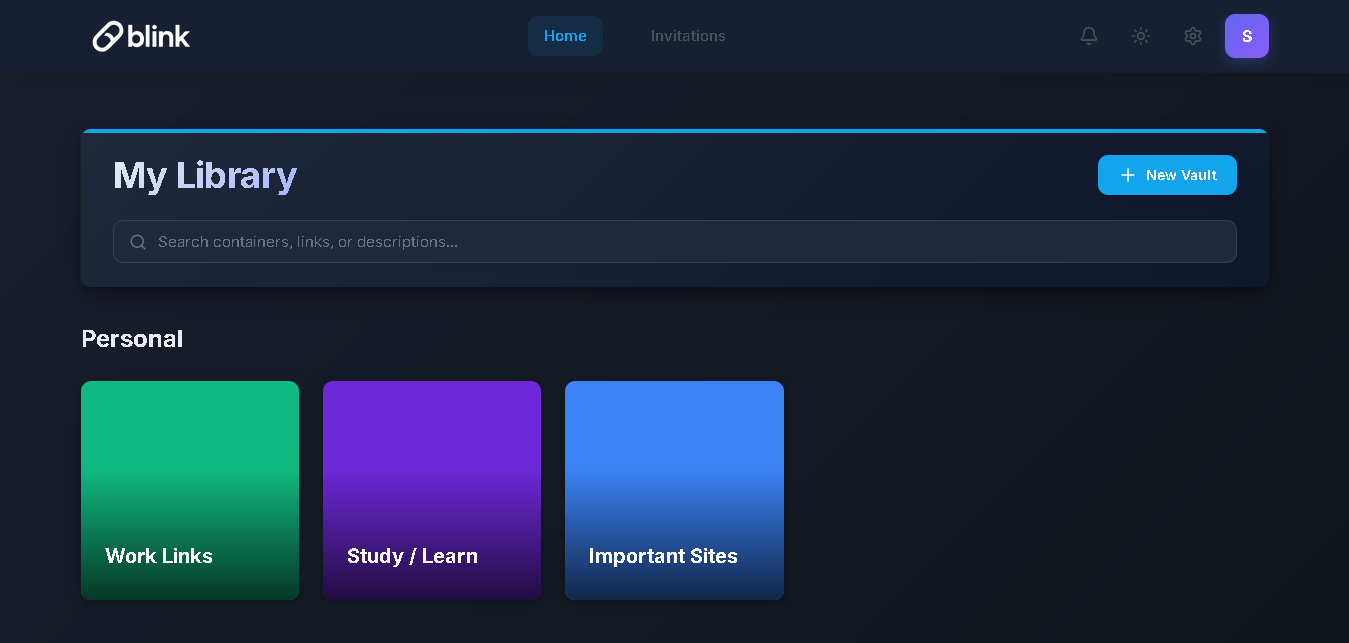
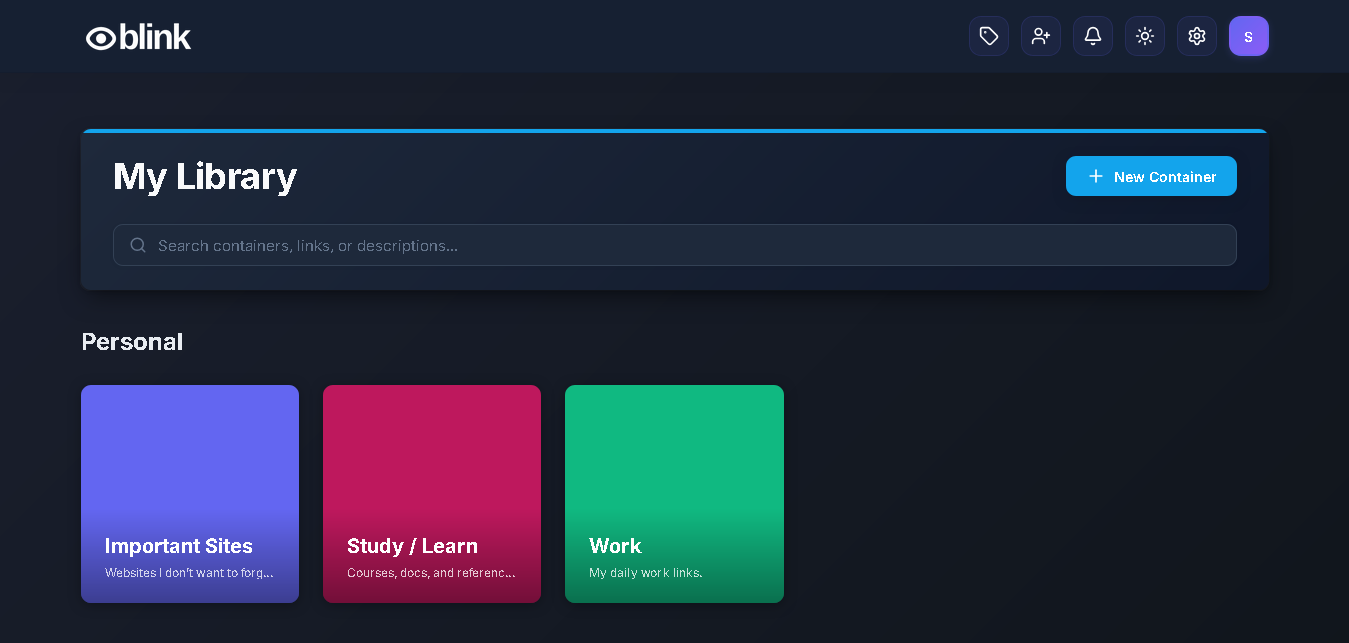
feat: introduce initial landing page with global styling and supporting assets.

diff --git a/src/pages/LandingPage.tsx b/src/pages/LandingPage.tsx
@@ -1,16 +1,18 @@
-import React from 'react';
+import React, { useState } from 'react';
 import { Link } from 'react-router-dom';
 import { useTheme } from '../contexts/ThemeContext';
-import { Lock, Share2, Zap, Users, Search, Moon, Sun, Shield, Layout, Globe } from 'lucide-react';
+import { Lock, Share2, Zap, Users, Search, Moon, Sun, Shield, Layout, Globe, Tag, Palette } from 'lucide-react';
 import blinkLogo from '../assets/blinklogo2.png';
 import homepageImg from '../assets/Screenshots/homepage.png';
 import inviteImg from '../assets/Screenshots/invite.png';
 import shareImg from '../assets/Screenshots/share.png';
 import vaultDetailsImg from '../assets/Screenshots/vaultdetails.png';
+import tagsImg from '../assets/Screenshots/tags.png';
 import '../css/About.css';
 
 const LandingPage: React.FC = () => {
   const { theme, toggleTheme } = useTheme();
+  const [demoColor, setDemoColor] = useState('#6366f1');
 
   return (
     <div className="landing-page bg-white dark:bg-gray-900 text-black dark:text-white overflow-hidden">
@@ -52,7 +54,7 @@ const LandingPage: React.FC = () => {
               The ultimate workspace to store, manage, and collaborate on links with your team. Secure, fast, and beautifully designed.
             </p>
             <div className="hero-buttons flex gap-4">
-              <Link to="/signup" className="btn-primary about-btn-primary px-8 py-3 text-lg rounded-full shadow-lg hover:shadow-xl transition-all transform hover:-translate-y-1">
+              <Link to="/signup" className="btn-primary about-btn-primary px-8 py-3 text-lg rounded-full shadow-lg hover:shadow-xl transition-all">
                 Start for free
               </Link>
               <Link to="https://github.com/samirrhashimov/blink.git" className="btn-secondary about-btn-secondary px-8 py-3 text-lg rounded-full">
@@ -76,7 +78,7 @@ const LandingPage: React.FC = () => {
             <div className="inline-flex items-center justify-center p-2 bg-blue-100 dark:bg-blue-900/30 rounded-lg mb-4 text-blue-600 dark:text-blue-400">
               <Layout className="w-6 h-6" />
             </div>
-            <h2 className="feature-section-title">Centralized Vaults</h2>
+            <h2 className="feature-section-title">Centralized Containers</h2>
             <p className="feature-section-desc">
               Create dedicated workspaces called "Containers" for different projects, teams, or personal interests. Keep your links customized and organized in one secure place.
             </p>
@@ -115,6 +117,59 @@ const LandingPage: React.FC = () => {
           </div>
           <div className="feature-image-container">
             <img src={inviteImg} alt="Team Invitation" className="feature-screenshot rotate-1 hover:rotate-0 transition-transform duration-500" />
+          </div>
+        </div>
+
+        {/* Feature 4 - Smart Tagging System */}
+        <div className="feature-row">
+          <div className="feature-text">
+            <div className="inline-flex items-center justify-center p-2 bg-orange-100 dark:bg-orange-900/30 rounded-lg mb-4 text-orange-600 dark:text-orange-400">
+              <Tag className="w-6 h-6" />
+            </div>
+            <h2 className="feature-section-title">Smart Tagging System</h2>
+            <p className="feature-section-desc">
+              Organize your links with powerful tags. Create custom tags, filter by categories, and find exactly what you need in seconds. Perfect for managing large collections.
+            </p>
+          </div>
+          <div className="feature-image-container">
+            <img src={tagsImg} alt="Tagging System" className="feature-screenshot rotate-1 hover:rotate-0 transition-transform duration-500" />
+          </div>
+        </div>
+
+        {/* Feature 5 - Customizable Themes */}
+        <div className="feature-row">
+          <div className="feature-text">
+            <div className="inline-flex items-center justify-center p-2 bg-pink-100 dark:bg-pink-900/30 rounded-lg mb-4 text-pink-600 dark:text-pink-400">
+              <Palette className="w-6 h-6" />
+            </div>
+            <h2 className="feature-section-title">Customizable Themes</h2>
+            <p className="feature-section-desc">
+              Personalize your workspace with custom container colors. Choose from our curated color palette to make each container uniquely yours. Try it out below!
+            </p>
+            <div className="color-demo-palette" style={{ marginTop: '1.5rem' }}>
+              {['#6366f1', '#8b5cf6', '#ec4899', '#f43f5e', '#f97316', '#eab308', '#22c55e', '#14b8a6', '#06b6d4'].map((color) => (
+                <button
+                  key={color}
+                  onClick={() => setDemoColor(color)}
+                  className="color-demo-option"
+                  style={{
+                    backgroundColor: color,
+                    border: demoColor === color ? '3px solid white' : '3px solid transparent',
+                    boxShadow: demoColor === color ? `0 0 0 2px ${color}` : 'none',
+                  }}
+                  aria-label={`Select color ${color}`}
+                />
+              ))}
+            </div>
+          </div>
+          <div className="feature-image-container">
+            <div className="demo-container-card" style={{ backgroundColor: demoColor }}>
+              <div className="demo-container-overlay" style={{ backgroundColor: demoColor }}></div>
+              <div className="demo-container-content">
+                <h3 className="demo-container-title">My Container</h3>
+                <p className="demo-container-description">Custom colored workspace</p>
+              </div>
+            </div>
           </div>
         </div>
 

diff --git a/src/css/About.css b/src/css/About.css
@@ -682,3 +682,118 @@ body,
     display: none;
   }
 }
+
+/* Color Demo Palette */
+.color-demo-palette {
+  display: flex;
+  flex-wrap: wrap;
+  gap: 0.75rem;
+  align-items: center;
+}
+
+.color-demo-option {
+  width: 48px;
+  height: 48px;
+  border-radius: 50%;
+  cursor: pointer;
+  transition: all 0.3s cubic-bezier(0.4, 0, 0.2, 1);
+  border: 3px solid transparent;
+  position: relative;
+  outline: none;
+}
+
+.color-demo-option:hover {
+  transform: scale(1.15);
+}
+
+.color-demo-option:active {
+  transform: scale(0.95);
+}
+
+/* Demo Container Card - Independent from vault-card */
+.demo-container-card {
+  position: relative;
+  aspect-ratio: 1;
+  border-radius: 12px;
+  overflow: hidden;
+  box-shadow: 0 10px 30px rgba(0, 0, 0, 0.2);
+  transition: all 0.5s cubic-bezier(0.4, 0, 0.2, 1);
+  max-width: 300px;
+  margin: 0 auto;
+}
+
+.demo-container-card:hover {
+  transform: translateY(-8px) scale(1.02);
+  box-shadow: 0 20px 40px rgba(0, 0, 0, 0.3);
+}
+
+.demo-container-overlay {
+  position: absolute;
+  inset: 0;
+  opacity: 0.85;
+  transition: opacity 0.3s ease;
+  z-index: 1;
+}
+
+.demo-container-card:hover .demo-container-overlay {
+  opacity: 0.95;
+}
+
+.demo-container-content {
+  position: absolute;
+  bottom: 0;
+  left: 0;
+  right: 0;
+  padding: 2rem;
+  color: white;
+  display: flex;
+  flex-direction: column;
+  gap: 0.5rem;
+  z-index: 2;
+  background: linear-gradient(to top, rgba(0, 0, 0, 0.5) 0%, transparent 100%);
+}
+
+.demo-container-title {
+  font-size: 1.5rem;
+  font-weight: 700;
+  margin: 0;
+  line-height: 1.3;
+  color: white;
+  text-shadow: 0 2px 4px rgba(0, 0, 0, 0.3);
+}
+
+.demo-container-description {
+  font-size: 0.875rem;
+  opacity: 0.9;
+  color: rgba(255, 255, 255, 0.95);
+  margin: 0;
+  line-height: 1.4;
+  text-shadow: 0 1px 2px rgba(0, 0, 0, 0.3);
+}
+
+.demo-container-meta {
+  font-size: 1rem;
+  opacity: 0.85;
+  color: rgba(255, 255, 255, 0.9);
+  font-weight: 500;
+  text-shadow: 0 1px 2px rgba(0, 0, 0, 0.3);
+}
+
+/* Responsive adjustments for demo */
+@media (max-width: 768px) {
+  .color-demo-palette {
+    justify-content: center;
+  }
+
+  .demo-container-card {
+    max-width: 300px;
+  }
+
+  .demo-container-content {
+    padding: 1.5rem;
+  }
+
+  .demo-container-title {
+    font-size: 1.25rem;
+  }
+}

diff --git a/src/App.css b/src/App.css
@@ -1236,7 +1236,6 @@ main.container {
 }
 
 .btn-primary:hover {
-  transform: translateY(-2px);
   box-shadow: 0 6px 18px rgba(var(--primary-rgb, 99, 102, 241), 0.3);
   opacity: 0.95;
 }
@@ -1253,7 +1252,6 @@ main.container {
 
 .btn-secondary:hover {
   background: rgba(var(--primary-rgb, 99, 102, 241), 0.2);
-  transform: translateY(-3px);
 }
 
 .landing-footer {
